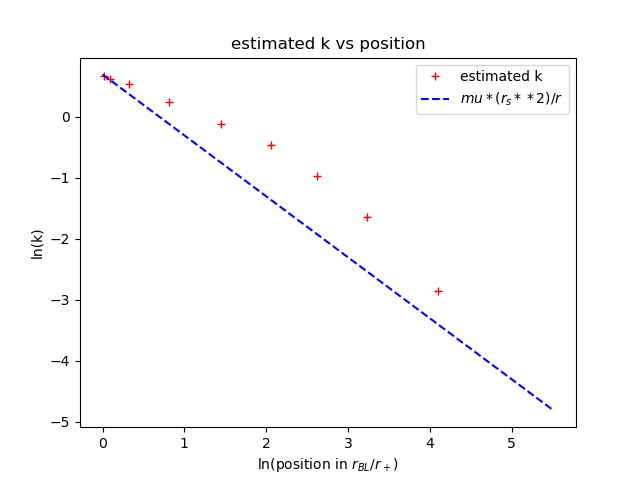
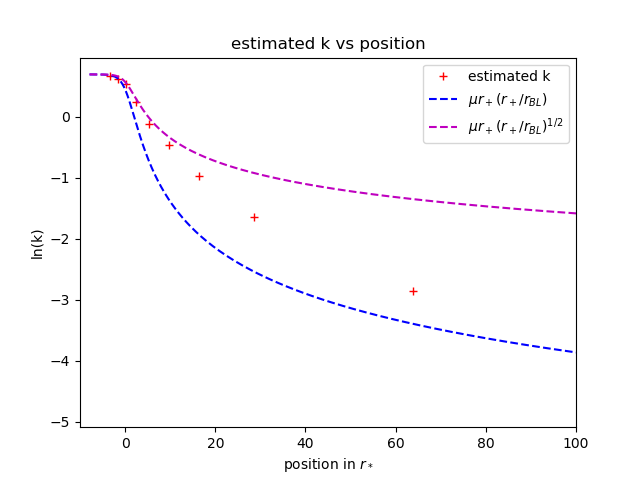
fixed some typos in BoundaryConditions

diff --git a/Analysis/scripts/radial_profile_KerrSF_phi_vs_ansatz.py b/Analysis/scripts/radial_profile_KerrSF_phi_vs_ansatz.py
@@ -117,7 +117,7 @@ t = number*dt
 
 #popt, pconv = curve_fit(anzatz_phi, x, phi, p0=(0.1, 0))
 
-def plot_wavelengths():
+def plot_wavelengths(type):
 	osc_phi = phi/envelope(r_BL, phi, 1)
 	local_extrema_indices = argrelextrema(np.abs(osc_phi), np.greater)[0]
 	local_extrema = r_star[local_extrema_indices]
@@ -126,19 +126,40 @@ def plot_wavelengths():
 	pos = 0.5*(local_extrema[1:] + local_extrema[:-1])
 	r_BL_pos =  0.5*(r_BL_extrema[1:] + r_BL_extrema[:-1]) 
 	k = 2*np.pi/wl
-	#wl_anzatz = (r_BL-r_plus)/(2*math.pi*r_plus) + 0.05*((r_BL-r_plus)/(2*math.pi*r_plus))**2
-	#z = (r_BL-r_plus)/(2*math.pi*r_plus)
-	#z_pos = (r_BL_pos - r_plus)/(2*math.pi*r_plus)
-	plt.plot(np.log(r_BL_pos/r_plus), np.log(k), "r+", label="estimated k")
-	k_anzatz = r_plus*r_plus/(r_BL)
-	plt.plot(np.log(r_BL/r_plus), np.log(k_anzatz), "b--", label="$mu*(r_s**2)/r$")
-	#plt.xlim((-10, 100))
-	#plt.ylim((0, 2.1))
-	plt.legend()
-	plt.title("estimated k vs position")
-	plt.xlabel("ln(position in $r_{BL}/r_+$)")
-	plt.ylabel("ln(k)")
-	save_name = "phi_profile_k_plot_ln.png"
+	z = r_BL/r_plus
+	#k_anzatz = r_plus/(z)
+	if (type == "log_log"):
+		plt.plot(np.log(r_BL_pos/r_plus), np.log(k), "r+", label="estimated k")
+		## fit line to points ##
+		ln_z = np.log(r_BL_pos/r_plus)
+		ln_k = np.log(k)
+		
+		p = np.polyfit(ln_z[0:6], np.log(k)[0:6], deg=1)
+		x = np.linspace(ln_z[0], ln_z[5], 16)
+		plt.plot(x, p[0]*x + p[1], 'm--', label="{:.2f} + {:.2f}x".format(p[1], p[0])) 
+		
+		p2 = np.polyfit(ln_z[5:], np.log(k)[5:], deg=1)
+		x = np.linspace(ln_z[5], ln_z[-1], 16)
+		plt.plot(x, p2[0]*x + p2[1], 'c--', label="{:.2f} + {:.2f}x".format(p2[1], p2[0]))
+		plt.plot(np.log(r_BL/r_plus), np.log(k_anzatz), "b--", label="anzatz")
+		
+		#plt.xlim((-10, 100))
+		#plt.ylim((0, 2.1))
+		plt.legend()
+		plt.title("estimated k vs position")
+		plt.xlabel("ln(position in $r_{BL}/r_+$)")
+		plt.ylabel("ln(k)")
+		save_name = "phi_profile_k_plot_ln_ln.png"
+	elif (type == "log"):
+		plt.plot(pos, np.log(k), "r+", label="estimated k")
+		plt.plot(r_star, np.log(mu*r_plus*(r_plus/r_BL)), "b--", label="$\\mu r_+ (r_+/r_{BL})$")
+		plt.plot(r_star, np.log(mu*r_plus*np.sqrt(r_plus/r_BL)), "m--", label="$\\mu r_+ (r_+/r_{BL})^{1/2}$")
+		plt.legend()
+		plt.title("estimated k vs position")
+		plt.xlabel("position in $r_*$")
+		plt.xlim((-10, 100))
+		plt.ylabel("ln(k)")
+		save_name = "phi_profile_k_plot_ln.png"
 	print("saved " + save_root_path + save_name)
 	plt.savefig(save_root_path + save_name, transparent=False)
 	plt.clf()
@@ -175,4 +196,4 @@ def plot_graph():
 	plt.savefig(save_root_path + save_name, transparent=False)
 	plt.clf()
 	
-plot_wavelengths()
+plot_wavelengths("log")

diff --git a/Source/GRChomboCore/BoundaryConditions.cpp b/Source/GRChomboCore/BoundaryConditions.cpp
@@ -75,7 +75,7 @@ void BoundaryConditions::write_boundary_conditions(params_t a_params)
     std::map<int, std::string> bc_names = {{STATIC_BC, "Static"},
                                            {SOMMERFELD_BC, "Sommerfeld"},
                                            {REFLECTIVE_BC, "Reflective"},
-                                           {EXTRAPOLATING_BC, "Extrapolating"}
+                                           {EXTRAPOLATING_BC, "Extrapolating"},
 					   {MIXED_BC, "Mixed"}};
 
     FOR1(idir)
@@ -403,10 +403,10 @@ void BoundaryConditions::fill_boundary_rhs_dir(const Side::LoHiSide a_side,
                 fill_extrapolating_cell(rhs_box, iv, a_side, dir,
                                         m_params.extrapolation_order);
                 break;
-            }
+	    }
 	    case MIXED_BC:
 +           {
-+                // Interval chi_comps(0, 0);
+		 // Interval chi_comps(0, 0);
 +                Interval ccz4_comps(0, 25);
 +                Interval field_comps(25, 27);
 +
@@ -433,7 +433,6 @@ void BoundaryConditions::fill_boundary_rhs_dir(const Side::LoHiSide a_side,
 +                }
 +                break;
 +           }
-
             default:
                 MayDay::Error(
                     "BoundaryCondition::Supplied boundary not supported.");

diff --git a/Analysis/scripts/mass_flux_parallel_compare_alm.py b/Analysis/scripts/mass_flux_parallel_compare_alm.py
@@ -28,7 +28,7 @@ def add_data_dir(list, num, l, m, a):
 
 data_dirs = []
 # choose datasets to compare
-add_data_dir(data_dirs, 39, 1, 1, "0.7")
+add_data_dir(data_dirs, 22, 0, 0, "0")
 
 # set up parameters
 data_root_path = "/rds/user/dc-bamb1/rds-dirac-dp131/dc-bamb1/GRChombo_data/KerrSF"
@@ -42,7 +42,7 @@ output_dir = "data/compare_alm_flux"
 
 half_box = True
 
-Jr_or_Sr = False
+Jr_or_Sr = True
 
 def calculate_flux(dd):
 	data_sub_dir = dd.name
@@ -72,7 +72,8 @@ def calculate_flux(dd):
 		def _rho_Jr_eff(field, data):
 			r_BL = (data["spherical_radius"]/cm)*(1 + r_plus*cm/(4*data["spherical_radius"]))**2
 			Sigma2 = r_BL**2 + (data["z"]*a*M/(r_BL*cm))
-			#Delta = r_BL**2 + (a*M)**2 - 2*M*r_BL		
+			#Delta = r_BL**2 + (a*M)**2 - 2*M*r_BL
+			# r^2*(r_BL - r_minus)/(Sigma^2*r)*S_r*det(gamma)		
 			return ((data["spherical_radius"]**2/cm**2)*(r_BL - r_minus)/(Sigma2*r_BL))*data["S_r"]*pow(data["chi"],-3)
 	
 	elif not Jr_or_Sr:

diff --git a/Source/GRChomboCore/BoundaryConditions.hpp b/Source/GRChomboCore/BoundaryConditions.hpp
@@ -35,7 +35,7 @@ class BoundaryConditions
         SOMMERFELD_BC,
         REFLECTIVE_BC,
         EXTRAPOLATING_BC,
-	MIXED_BC
+        MIXED_BC
     };
 
     /// enum for possible parity states
